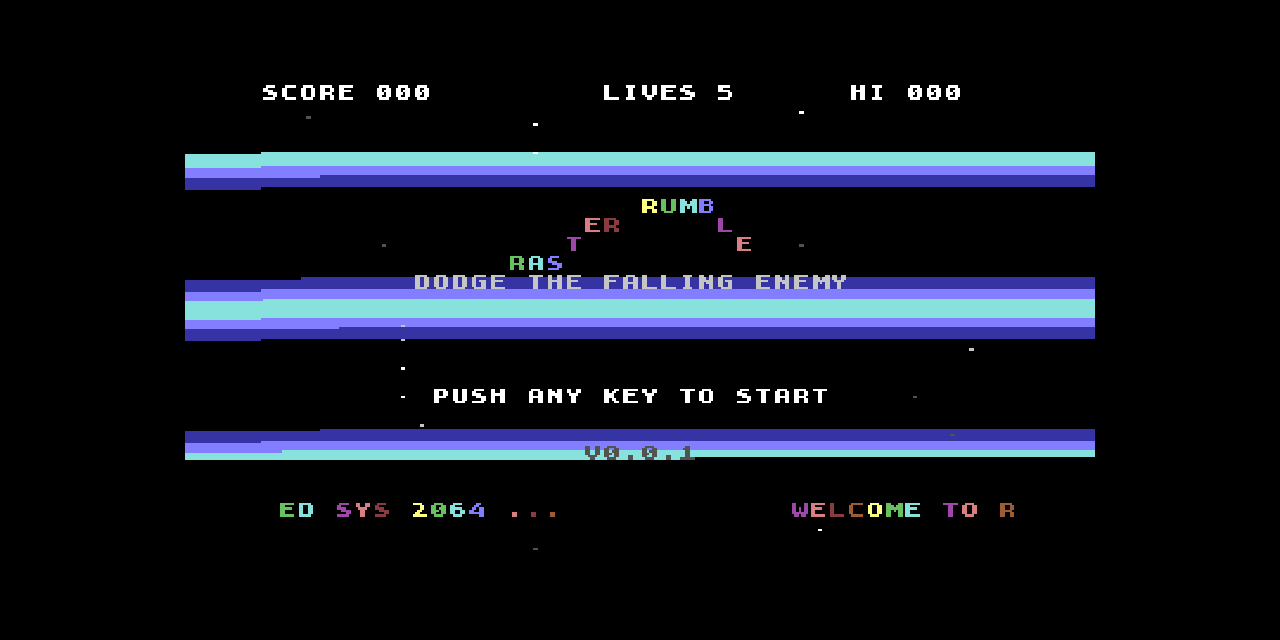
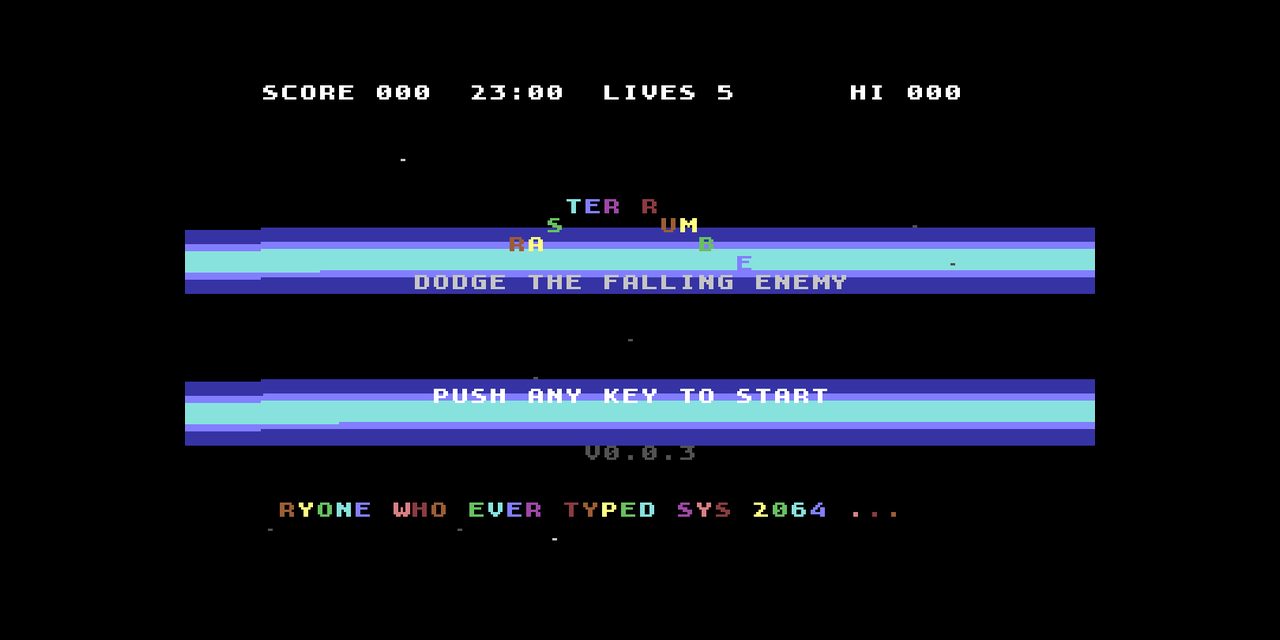
Update the docs, screenshots, GIF and social preview for version 0.0.3
New gameplay.gif and border.png (chapter 2 with the clock and drifting
enemies), the other pictures show v0.0.3 and the clock. The Border is
marked as partly done in the README and docs/story.md.

diff --git a/README.md b/README.md
@@ -2,17 +2,19 @@
 
 A Commodore 64 game written in 6502 assembly. Built for fun, nostalgia and, one day, real hardware.
 
-**Status: alpha.** Download the latest build from the [Releases page](https://github.com/DDecoene/raster-rumble/releases/latest): the `.prg` for an emulator, Kung Fu Flash or Ultimate, or the `.d64` disk image. Two of the six chapters of the story are playable so far.
+**Status: alpha.** Download the latest build from the [Releases page](https://github.com/DDecoene/raster-rumble/releases/latest): the `.prg` for an emulator, Kung Fu Flash or Ultimate, or the `.d64` disk image. Two of the six chapters of the story are playable so far, and the third (The Border) is under construction.
 
-![The Glitch in action](docs/screenshots/glitch.gif)
+![Gameplay: the Glitch and enemies that drift sideways](docs/screenshots/gameplay.gif)
 
-| Title | The Glitch (the green chip) |
+| Title | Chapter screen |
 |---|---|
-| ![Title screen](docs/screenshots/title.png) | ![Gameplay with the Glitch](docs/screenshots/glitch.png) |
-| **Chapter screen** | **Game over** |
-| ![Chapter screen](docs/screenshots/chapter.png) | ![Game over screen](docs/screenshots/gameover.png) |
+| ![Title screen](docs/screenshots/title.png) | ![Chapter screen](docs/screenshots/chapter.png) |
+| **The Glitch (the green chip, 01:00)** | **The Border (03:00): some enemies drift** |
+| ![Gameplay with the Glitch](docs/screenshots/glitch.png) | ![Gameplay in The Border](docs/screenshots/border.png) |
+| **Game over** | |
+| ![Game over screen](docs/screenshots/gameover.png) | |
 
-A title screen waits for a key (or the joystick) before the game starts. You fly a ship along the bottom of the screen and dodge a falling enemy. Every dodge scores a point. The enemy gets faster as your score climbs and drifts toward you while it falls. You have 5 lives (`lives` at the top). A hit flashes the border, plays an explosion and costs a life. After the last one a game over screen waits for any key, then a new game starts with score 000. The best score stays on screen as `hi`. Stars scroll behind the action and a looping arpeggio plays while you dodge. After ten dodges a chapter screen opens and the Glitch, a second falling enemy that suddenly speeds up, joins in.
+A title screen waits for a key (or the joystick) before the game starts. You fly a ship along the bottom of the screen and dodge a falling enemy. Every dodge scores a point. The enemy gets faster as your score climbs and drifts toward you while it falls. You have 5 lives (`lives` at the top), and between the score and the lives the clock shows how far into the night you are (`23:00` to `07:00`). A hit flashes the border, plays an explosion and costs a life. After the last one a game over screen waits for any key, then a new game starts with score 000. The best score stays on screen as `hi`. Stars scroll behind the action and a looping arpeggio plays while you dodge. After 25 dodges a chapter screen opens and the next hour of the night begins. In the second chapter (01:00) the Glitch, a second falling enemy that suddenly speeds up, joins in. From the third chapter (03:00, The Border) on, half of the enemies drift sideways while they fall and bounce off the left and right edges.
 
 ## Tools
 
@@ -42,7 +44,7 @@ The first run clones the emulator into `tools/vc64web` (about 26 MB, ignored by 
 
 #### The dodging bot
 
-`tools/bot.js` plays the game for you, to reach later chapters without playing by hand. Paste it into the browser console of the emulator page (or load it with a test tool), then use `bot.start()`, `bot.status()` and `bot.stop()`. It reads the sprite positions from the emulated C64 and steers with the arrow keys, walking to the spot on the screen that is farthest from the falling things (the enemy, and the Glitch once it is active). On the title and game over screens it taps Space, so it plays on after a game over. To test hits it can ram instead of dodge: `bot.start('enemy')` or `bot.start('glitch')` flies into that one (`'glitch'` dodges the enemy until the Glitch is in the game). In that mode it ignores the other falling thing, so that one hits too now and then. It only moves left and right and does not always survive: the status shows `best`, `maxChapter` and `games`.
+`tools/bot.js` plays the game for you, to reach later chapters without playing by hand. Paste it into the browser console of the emulator page (or load it with a test tool), then use `bot.start()`, `bot.status()` and `bot.stop()`. It reads the sprite positions from the emulated C64 and steers with the arrow keys, walking to the spot on the screen that is farthest from the falling things (the enemy, and the Glitch once it is active). An enemy that drifts sideways counts twice: where it is now, and where it will be when it reaches the height of the ship (the bounces off the edges included). On the title and game over screens it taps Space, so it plays on after a game over. To test hits it can ram instead of dodge: `bot.start('enemy')` or `bot.start('glitch')` flies into that one (`'glitch'` dodges the enemy until the Glitch is in the game). In that mode it ignores the other falling thing, so that one hits too now and then. It only moves left and right and does not always survive: the status shows `best`, `maxChapter` and `games`.
 
 ### Joystick readout
 
@@ -58,7 +60,7 @@ The game tells *The Night of the Raster Beam*. It is 1986 and a kid forgot to sw
 |---|---|---|
 | 23:00 | Boot | yes |
 | 01:00 | The Glitch | yes |
-| 03:00 | The Border | not yet |
+| 03:00 | The Border | partly: enemies that drift sideways and bounce, the rest (flickering border, new colours and bass) is still to come |
 | 04:30 | The Memory | not yet |
 | 06:00 | The Raster Beam | not yet |
 | 07:00 | The Disk | not yet |
@@ -71,7 +73,7 @@ The latest build is always on the [Releases page](https://github.com/DDecoene/ra
 
 How it works:
 
-- The version lives in `src/version.asm` (`!scr "v0.0.1"`) and is shown on the title screen. `make version` prints it.
+- The version lives in `src/version.asm` (`!scr "v0.0.3"`) and is shown on the title screen. `make version` prints it.
 - `main` only changes through a pull request from `dev`. `.github/workflows/pr-check.yml` fails a pull request that comes from another branch, that does not raise the version above the one on `main`, or that does not build.
 - When the pull request is merged, `.github/workflows/release.yml` builds the game, makes the disk image (with `c1541`, part of VICE), tags the commit `vX.Y.Z` and creates a release with both files and generated release notes.
 - So the steps are: on `dev`, raise the version in `src/version.asm` in a commit, open a pull request `dev` to `main`, wait for the checks, merge.
@@ -87,13 +89,13 @@ One-time GitHub setup (Settings, Branches, rule for `main`): require a pull requ
     src/main.asm          startup code and the main loop, includes everything else
     src/hardware.asm      names for the VIC, SID and CIA registers, colours, fixed memory areas
     src/config.asm        difficulty settings, screen layout, zero page and RAM variable addresses
-    src/actors.asm        ship and enemy: 9-bit X movement, spawning, homing, difficulty
+    src/actors.asm        ship, enemy and Glitch: 9-bit X movement, spawning, homing, drifting and bouncing, difficulty
     src/score.asm         score and high score
     src/starfield.asm     RAM character set, scrolling stars, random_column
     src/music.asm         the tune: synth arpeggio on SID voice 2, bass on voice 1, sound effects on voice 3
     src/title.asm         the title and game over screens and the any-key check
     src/demo.asm          their demo effects: raster bars, bouncing letters, scroller
-    src/chapter.asm       the screen between two chapters of the story (see docs/story.md)
+    src/chapter.asm       the screen between two chapters of the story (see docs/story.md), and the clock on the top row
     src/data.asm          tables and text (star data, note tables, labels)
     src/version.asm       the version number (the one place it lives), shown on the title screen
     src/sprites.asm       the ship and enemy shapes at $2000
@@ -151,6 +153,11 @@ Note: in an emulator the title used to start by itself, and a joystick direction
 | `$1d` | `sfx_timer` | frames left in which a sound effect owns voice 3 (the drums wait) |
 | `$21` | `dodge_flash` | frames left of the glow after a dodge |
 | `$29`-`$2d`, `$2f` | `plasma_ph1`-`plasma_ph3`, `plasma_row`, `plasma_rowv`, `plasma_cnt` | the plasma: phases, next row, the vertical wave value, row counter for `plasma_init` |
+| `$31` | `chapter` | which chapter we are in: 0 (23:00) to 5 (07:00) |
+| `$32` | `chapter_dodges` | dodged enemies in this chapter so far |
+| `$33` | `glitch_active` | 0 = no Glitch yet, 1 = it is falling |
+| `$34` | `glitch_timer` | frames the current Glitch has been falling |
+| `$35` | `enemy_dx` | sideways direction of the enemy: 0 = straight down, 1 = right, `$ff` = left |
 | `$22`-`$24` | `band1`-`band3` | `$d016` value of each parallax band |
 | `$25` | `exp_timer` | frames left of the explosion (0 = none) |
 | `$26`-`$28` | `shake_x`, `shake_y`, `fx_tmp` | this frame's shake and a scratch byte |
@@ -163,7 +170,7 @@ Note: in an emulator the title used to start by itself, and a joystick direction
 
 ### Starfield
 
-12 stars scroll down behind everything, in three speeds (1, 2, 3 pixels per frame) and three greys, so the slow dark ones look far away. The ROM letters and digits (screen codes 0-63) are copied to RAM at `$2800` and `$d018` points the VIC at that copy. Screen codes 64-71 are 8 star shapes, each a dot in a different pixel row. A star moves down by switching to the next shape, and by one character row when it passes the bottom of its cell. Stars never touch row 0, which holds the score. Random columns come from `random_column`: a random byte mixed with the frame counter and reduced to 0-39 by subtracting 40 repeatedly. Re-reading the SID noise register a few cycles after a rejected value (the old source) gave strongly related values, which bunched all the stars into the left quarter of the screen. `setup_charset`, `setup_stars` and `update_stars` do the work.
+12 stars scroll down behind everything, in three speeds (1, 2, 3 pixels per frame) and three greys, so the slow dark ones look far away. The ROM letters and digits (screen codes 0-63) are copied to RAM at `$2800` and `$d018` points the VIC at that copy. Screen codes 64-71 are 8 star shapes, each a dot in a different pixel row. A star moves down by switching to the next shape, and by one character row when it passes the bottom of its cell. Every star remembers what was in its cell before (`star_ucode`, `star_ucol`) and puts that back when it moves on. If a star flies into a cell where another star already sits, it must not remember that other star's shape as the background: when the two leave in the wrong order the shape would stay on the screen for good. On the title and game over screens there is no plasma to clean that up, and the dots piled up (11 star shapes on screen after 15 seconds, 47 after a minute, with only 12 stars). `update_stars` now remembers a plain space instead. Stars never touch row 0, which holds the score. Random columns come from `random_column`: a random byte mixed with the frame counter and reduced to 0-39 by subtracting 40 repeatedly. Re-reading the SID noise register a few cycles after a rejected value (the old source) gave strongly related values, which bunched all the stars into the left quarter of the screen. `setup_charset`, `setup_stars` and `update_stars` do the work.
 
 ### Sound
 
@@ -202,6 +209,9 @@ These constants in `src/config.asm` change the difficulty without touching the l
 - `ENEMY_SPEED`: starting fall speed in pixels per frame.
 - `MAX_SPEED`: the fastest the enemy gets.
 - `DODGES_PER_LEVEL`: dodges needed per speed-up.
+- `CHAPTER_DODGES`: dodges needed to finish a chapter (use 2 while testing, 25 takes minutes).
+- `ENEMY_DRIFT`: pixels per frame a drifting enemy moves sideways in The Border (higher is harder to dodge, and it reaches the edges more often).
+- `GLITCH_WAIT`, `GLITCH_SLOW`, `GLITCH_FAST`: how long and how fast the Glitch falls.
 - `LIVES`: lives per game. `OVER_WAIT`: frames the game over screen ignores keys.
 - `HIT_FRAMES`: how long the border flashes after a hit.
 - `MUSIC_TICKS`: ticks per step of the tune (a tick is 10 ms), higher is slower.
@@ -229,6 +239,8 @@ These constants in `src/config.asm` change the difficulty without touching the l
 - **Plasma behind the playfield.** A real 2D text mode plasma in dark blue, in the 24 rows under the score, drawn in extended colour mode (ECM, bit 6 of `$d011`): every cell has its own background colour, picked by bits 6 and 7 of its screen code from `$d021` (black) and `$d022` (the plasma colour, `VIC_BG1`). That is also why stars can sit on the plasma without a black box around them: a star gets the background bits of the cell it is in. ECM only has 64 characters, so the star shapes live at screen codes 33 to 40 (`STAR_CHAR`) and the two dither patterns at 41 (sparse) and 42 (checkerboard); the title screens do not use those codes. The value of a cell is the sum of three sine waves, as in the classic plasma: a horizontal one per column (`PLASMA_COLX`, once per frame in `plasma_prep`), a vertical one per row (`plasma_rowv`, once per row) and a diagonal one (`dtab`, period 32, read at x + row + phase). The sum (0 to 189) picks a screen code from `plasma_code` (black, sparse dots, checkerboard, or the plasma colour as background) and a colour for the dots from `plasma_ramp`; below 110 it is black, so only the peaks show. The inner loop of `plasma_step` patches its own addresses (self-modifying code) per row. `game_bars` colours 4 rows per frame between the music ticks and scroll bands, so the whole plasma is renewed every 6 frames. A star remembers the code and colour that were in its cell (`star_ucode`, `star_ucol`) and puts them back when it moves on; `plasma_step` redraws the stars of its row. A star inside a dithered cell gets a plain cell (one background colour per cell). `plasma_init` colours all rows at once after the title and game over screens and switches ECM on; `reset_scroll` switches it off for those screens. Moods: nebula, fire during an explosion, a glow just after a dodge (`ramp_lo`/`ramp_hi`, `mood_bg1`). To make it dimmer, raise the 110, 125, 140, 160 thresholds in `plasma_code` and `plasma_ramp` (`data.asm`).
 - **Explosion.** On a hit `start_explosion` launches 5 sprites (2 to 6, a round dot at `$2100`) from the ship in a star shape. `update_particles` moves them (9-bit X in `PART_LO`/`PART_HI` at `$c600`, switches a sprite off when it leaves the screen) and cycles white, yellow, orange, red. For `EXP_FRAMES` (28) frames the screen shakes: `update_bands` writes a random vertical scroll to `$d011` (below the playfield, where the VIC does not mind) and adds a random horizontal shake to the bands, with `shake_mask` making it smaller as the explosion ages. While `exp_timer` runs no new hit counts (the particles also set the sprite collision bits), a short grace period.
 - **The Glitch (chapter 1 and later).** A second falling enemy on sprite 7: a green microchip in two hi-res frames (`glitch_data`/`glitch_data_b`, pointers 133/134, flickering every 8 frames). It appears when chapter 1 begins: `main.asm` calls `start_glitch` right after `chapter_screen` (the chapter screen switches all sprites off and back on, so it must come after). `start_glitch` sets `glitch_active` (`$33`), spawns it at a random X with `spawn_glitch` (which uses `pick_x`, shared with `spawn_enemy`) and sets bit 7 of `$d015`. `move_glitch` runs every frame: it falls slowly (`GLITCH_SLOW`) for `GLITCH_WAIT` frames (`glitch_timer`, `$34`), then fast (`GLITCH_FAST`), and gives +1 point when it reaches the bottom. A hit by the ship (`$d01e` `%10000001`) costs a life like the enemy does, and afterwards both respawn at the top. `reset_difficulty` clears `glitch_active`, so a new game starts without it. The explosion only uses sprites 2 to 6 so that sprite 7 stays the Glitch, and `update_particles` and `chapter_screen` keep bit 7 of `$d015` on while it is active.
+- **The Border (chapter 2 and later).** From `chapter` 2 (03:00) `spawn_enemy` throws a four-sided die (`random_byte` and `#%00000011`): 0 or 1 means the enemy falls straight down, 2 drifts right, 3 drifts left. The direction lives in `enemy_dx` (`$35`): 0, 1 or `$ff` (-1; `bmi` tests the sign bit). Every frame the main loop moves a drifting enemy `ENEMY_DRIFT` pixels with `enemy_right` or `enemy_left` (the same 9-bit helpers homing uses), and a drifting enemy does not home: homing pulled it back to the ship, which is always on screen, so it almost never reached an edge. `bounce_enemy` (in `actors.asm`) turns it around at X 24 and X 320, the edges the ship uses too, comparing the 9-bit X with the high bit from `$d010`. A bounce can overshoot by one pixel because the check comes after the step. `spawn_enemy` and `reset_difficulty` set `enemy_dx` back to 0. Flying enemies still count as a dodge at the bottom (`MAX_Y`), so the chapter rules did not change.
+- **The clock.** `draw_clock` (in `chapter.asm`) prints the five letters of `chapter_time` for the current chapter at `CLOCK_POS` on the top row, in white, between the score and the lives. It runs just before every chapter screen (which leaves row 0 alone, so the new time is already there while the chapter screen shows) and from `reset_difficulty`, so a new game starts at `23:00`. The title screen only clears rows 1 to 24, so the clock is visible there too.
 - **Parallax bands.** The playfield is split in three bands (rows 1 to 6, 7 to 14, 15 to 24; the score row never moves). Each band has its own horizontal fine scroll (`$d016`, `band1` to `band3`, set at lines `BAND1_LINE` to `BAND3_LINE` by `game_bars`), 0 to 2, 0 to 4 and 0 to 7 pixels, from the ship X (`par_far`, `par_mid`, `par_near`): the stars lean the other way when you fly, the near ones most.
 
 ## Contributing and license

diff --git a/docs/story.md b/docs/story.md
@@ -46,6 +46,7 @@ No long texts. The story comes through things we already have or can build easil
 | Chapter counter | One byte `chapter` in `config.asm`, set to 0 in `reset_difficulty`. |
 | Tables per chapter | Colours, speed, number of enemies, music part, dodges to reach: one row per chapter in `data.asm`. |
 | Interlude screen | Reuse the text routines and raster effects from `title.asm` and `demo.asm`. |
+| Clock | `draw_clock` in `chapter.asm` prints the time of the chapter on the top row. *(done)* |
 | More enemies | The table refactor from `docs/chapter2.md`, then the sprite budget. |
 | Boss | Raster interrupt for the bar; collision on a Y range instead of sprite collision. |
 | Saving to disk | KERNAL SAVE/LOAD, already on the list. |
@@ -53,8 +54,8 @@ No long texts. The story comes through things we already have or can build easil
 ## Build order
 
 1. **Chapter counter and interlude screen** with only what exists now. The story is visible straight away. *(done)*
-2. **The Glitch** (chapter 2 from the notes).
-3. **The Border**: colours, diagonal enemies.
+2. **The Glitch** (the notes are in `docs/chapter2.md`). *(done)*
+3. **The Border**: sideways drifting enemies that bounce off the edges *(done)*, the clock on the top row *(done)*, border and background flicker, new colours per chapter and a different bass line *(still to do)*.
 4. **The Memory**: multiple enemies.
 5. **The Raster Beam**: boss.
 6. **The Disk**: ending and saving.

diff --git a/docs/chapter2.md b/docs/chapter2.md
@@ -1,5 +1,7 @@
 # Chapter 2: the second enemy
 
+> These notes are about **The Glitch**, the second enemy (chapter 1, 01:00, in the code and in `docs/story.md`). They were written when the story still counted from 1. The Border (03:00) has no notes file; its plan is in `docs/story.md`.
+
 Notes from the brainstorm. Goal: you write the code, Claude explains and reviews.
 
 ## What we want
